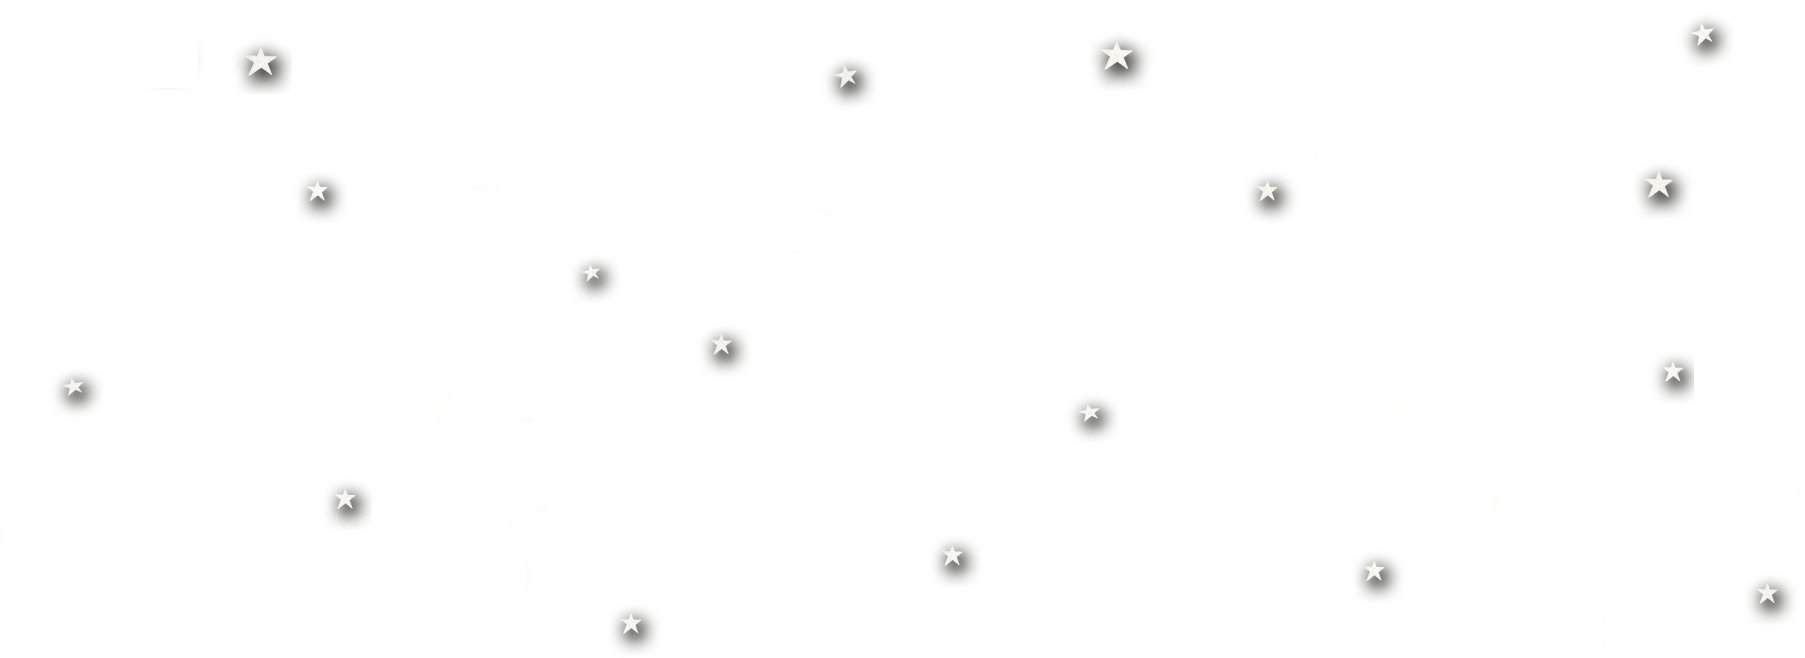
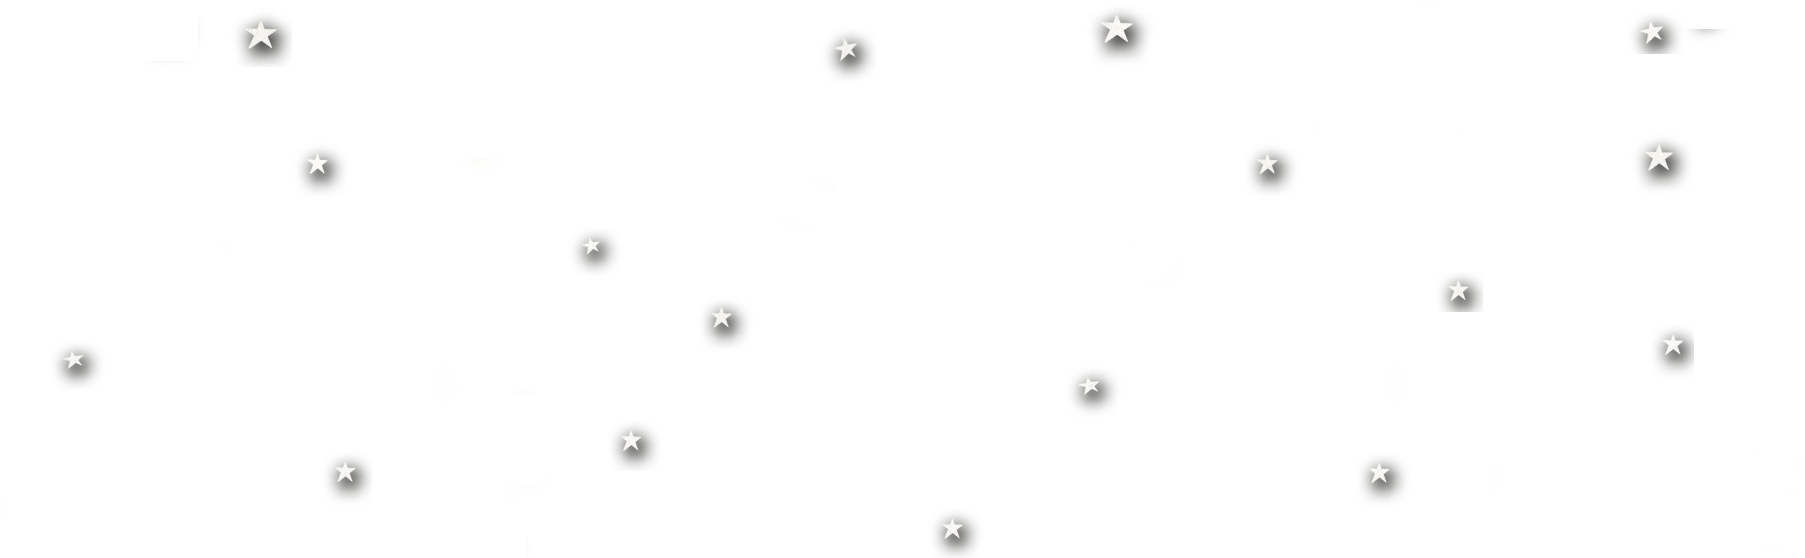
fixes

diff --git a/site/index.html b/site/index.html
@@ -3,89 +3,30 @@
 <head>
 
     <meta charset="utf-8">
-    <style>
-        * {
-            margin: 0;
-            padding: 0;
-        }
-        body {
-            background: url('img/bg.jpg');
-            background-repeat: no-repeat;
-            background-position: 0 0;
-            -moz-background-size: cover;
-            -webkit-background-size: cover;
-            background-size: cover;
-            margin: 0;
-            overflow: hidden;
-        }
-
-        .container {
-            position: relative;
-            height:100%;
-        }
-        img {
-            display: block;
-            width: 100%;
-        }
-
-        #stars {
-            margin-top: 20px;
-        }
-        #sea {
-            position: absolute;
-            bottom: 0px;
-			left: -50%;
-			width:200%;
-			height: 170px;
-
-        }
-        .wave {
-            
-            display:block;
-            height: 157px;
-			width:100%;
-        }
-		.front {
-			background: transparent url("img/wave_front.png") repeat-x 0% top;
-			
-		}
-		.medium {
-			background: transparent url("img/wave_medium.png") repeat-x 50% top;
-			margin-top: -10px;
-		}
-		.medium-back {
-			background: transparent url("img/wave_medium-back.png") repeat-x 30% top;
-			margin-top: -20px;
-		}
-		.far {
-			background: transparent url("img/wave_far.png") repeat-x center top;
-			margin-top: -50px;
-			
-		}
-		.moon {
-			background: transparent url("img/moon.png") no-repeat center top;
-			width:370px;
-			height: 519px;
-		}
-    </style>
 
     <!-- Behavioral Meta Data -->
     <meta name="apple-mobile-web-app-capable" content="yes">
     <meta name="viewport" content="width=device-width, initial-scale=1, maximum-scale=1, user-scalable=no">
+
     <script src="js/jquery.js"></script>
     <script src="js/main.js"></script>
+	
+	<!-- Styles -->
+	<link rel="stylesheet" type="text/css" href="css/style.css">
 </head>
 <body>
-<div class="container">
-    <div id="stars">
-        <li class="layer" data-depth="0.30"><img src="img/stars_back.png"></li>
-        <li class="layer" data-depth="0.70"><img src="img/stars_middle.png"></li>
-        <li class="layer" data-depth="0.80"><img src="img/stars_front.png"></li>
+<div class="container wrapper">
+    <div id="stars" data-friction-x="0.1"
+			data-friction-y="0.1"
+			data-scalar-x="25"
+			data-scalar-y="15"
+			limit-y="1">
+        <li class="layer" data-depth="0.10"><div class="stars back"></div></li>
+        <li class="layer" data-depth="0.40"><div class="stars middle"></div></li>
+        <li class="layer" data-depth="0.60"><div class="stars front"></div></li>
+		<li class="layer" data-depth="1"><div class="moon"></div></li>
     </div>
-	<div id="moon">
-		<li class="layer" data-depth="0.80"><div class="moon"></div></li>
-	</div>
-    <div id="sea">
+	<div id="sea" limit-y="1">
         <li class="layer" data-depth="0.20"><div class="wave far"></li>
         <li class="layer" data-depth="0.40"><div class="wave medium-back"></div></li>
         <li class="layer" data-depth="0.60"><div class="wave medium"></div></li>

diff --git a/site/css/style.css b/site/css/style.css
@@ -1,0 +1,96 @@
+	* {
+	margin: 0;
+	padding: 0;
+}
+body {
+	background: url('../img/bg.jpg');
+	background-repeat: no-repeat;
+	background-position: 0 0;
+	-moz-background-size: cover;
+	-webkit-background-size: cover;
+	background-size: cover;
+	margin: 0;
+	overflow: hidden;
+}
+
+.container {
+	position: relative;
+	height:100%;
+}
+.wrapper {
+    display: table;
+    height: 100%;
+    left: 0;
+    min-height: 460px;
+    overflow: hidden;
+    position: absolute;
+    top: 0;
+    width: 100%;
+}
+
+img {
+	display: block;
+	width: 100%;
+}
+
+#stars {
+	left: -50%;
+	width:200%;
+	height:567px;
+}
+
+.stars {
+	display:block;
+	width:100%;
+	height:567px;
+}
+
+.stars.back{
+	background: transparent url("../img/stars_back.png") repeat-x 0% top;
+}
+.stars.middle{
+	background: transparent url("../img/stars_middle.png") repeat-x 20% top;
+}
+.stars.front{
+		background: transparent url("../img/stars_front.png") repeat-x 0% top;
+}
+
+.moon {
+	background: transparent url("../img/moon.png") no-repeat center top;
+	width:370px;
+	height: 519px;
+	position: absolute;
+	right: 20%;
+	top: 10%
+}
+
+
+#sea {
+	position: absolute;
+	bottom: -20px;
+	left: -50%;
+	width:200%;
+	height: 170px;
+
+}
+.wave {
+	display:block;
+	height: 157px;
+	width:100%;
+}
+.wave.front {
+	background: transparent url("../img/wave_front.png") repeat-x 0% top;
+}
+.wave.medium {
+	background: transparent url("../img/wave_medium.png") repeat-x 50% top;
+	margin-top: -10px;
+}
+.wave.medium-back {
+	background: transparent url("../img/wave_medium-back.png") repeat-x 30% top;
+	margin-top: -20px;
+}
+.wave.far {
+	background: transparent url("../img/wave_far.png") repeat-x center top;
+	margin-top: -50px;
+	
+}

diff --git a/site/js/main.js b/site/js/main.js
@@ -1,4 +1,4 @@
 $("document").ready(function(){
-    $(".container").height($(window).height());
+   // $(".container").height($(window).height());
 
 });
